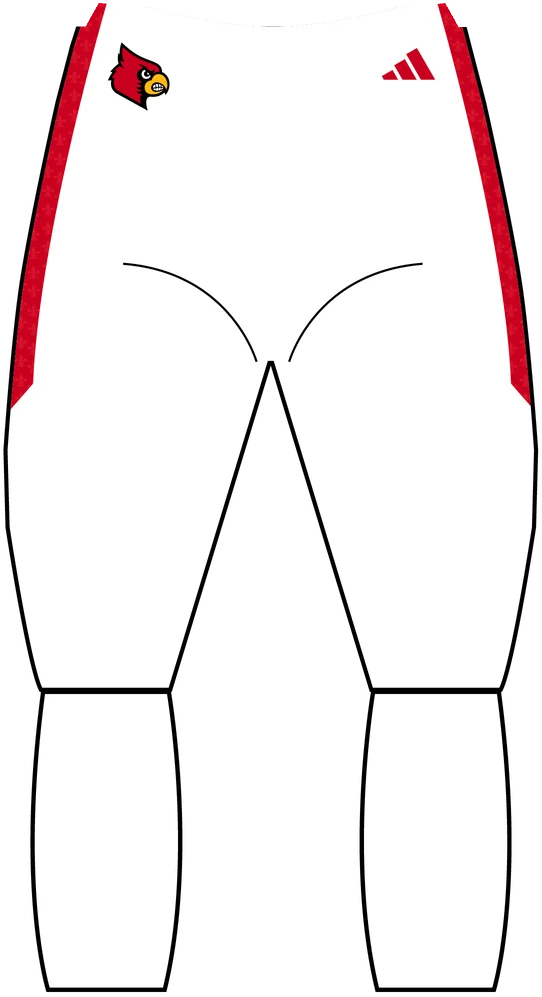
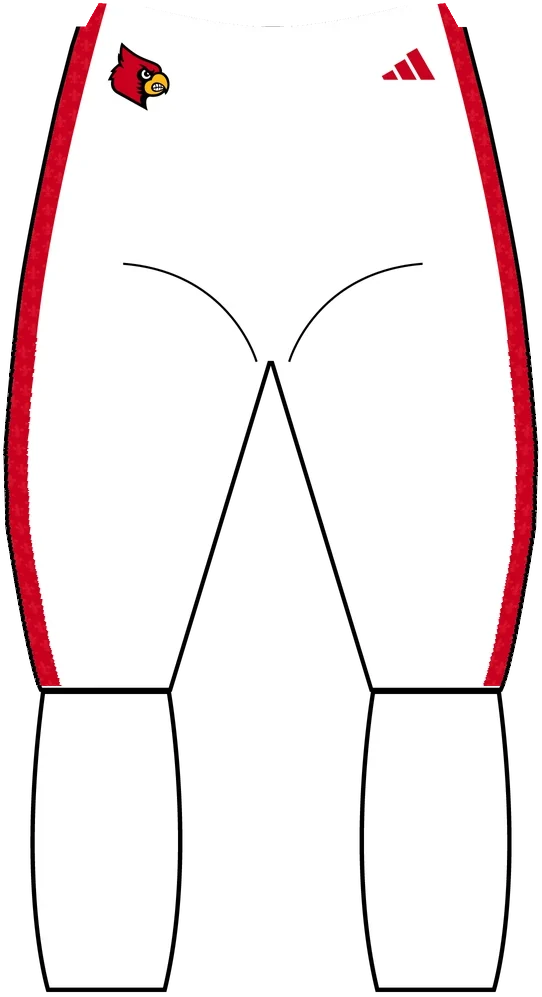
Run the 2026 pants' side panels to the hem in the panel art
The drawn 2026 pants stop their side panels partway down the thigh; on
the field and on the 3D player they run waistband to hem. A new
tools/pants_panels.py continues each panel down the outer edge to the
sock line, and prepare-uniforms.py applies it to the pants PANEL_END
marks as full length.

Claude-Session: https://claude.ai/code/session_01Cn7A5wwhiT3dYtk1tYmEhf

diff --git a/tools/pants_panels.py b/tools/pants_panels.py
@@ -1,0 +1,65 @@
+#!/usr/bin/env python3
+"""Run the 2026 pants' side panels down to the hem in the panel art.
+
+The design draws the 2026 side panels stopping partway down the thigh, cut
+at an angle; on the field (and on the 3D player, PANEL_END in
+prepare-uniforms.py) they run the full outside seam, waistband to hem. This
+copies the panel's rows from the thigh, where the drawing has it at full
+width, down the outer edge of each leg to the sock line.
+
+prepare-uniforms.py calls extend_panels() for the pants in PANEL_END. Run
+this file directly to patch the WebPs already in assets/uni/:
+
+    python3 tools/pants_panels.py
+
+Needs Pillow and NumPy.
+"""
+from pathlib import Path
+
+import numpy as np
+from PIL import Image
+
+ROOT = Path(__file__).resolve().parent.parent
+NAMES = ['pants-red', 'pants-white', 'pants-black']
+
+
+def extend_panels(img):
+    """Returns a copy of the front-view pants art with each side panel
+    continued from the thigh to the sock line."""
+    a = np.array(img.convert('RGBA')).astype(np.int16)
+    h, w = a.shape[:2]
+    base = np.median(a[int(h * 0.12):int(h * 0.25), int(w * 0.42):int(w * 0.58), :3].reshape(-1, 3), axis=0)
+    k = int(w * 0.11)  # strip width copied from the edge inward: outline, panel and some pants color
+    ref = list(range(int(h * 0.26), int(h * 0.34)))  # rows where the drawn panel is full width
+    out = a.copy()
+    for side in (1, -1):
+        def edge(y):
+            alpha = a[y, :, 3] > 128
+            if not alpha.any():
+                return None
+            return int(np.argmax(alpha)) if side == 1 else w - 1 - int(np.argmax(alpha[::-1]))
+
+        def strip(y):
+            x = edge(y)
+            return a[y, x:x + k] if side == 1 else a[y, x - k + 1:x + 1][::-1]
+
+        strips = [strip(y) for y in ref]
+        # Sock line: the first row below mid-leg where the pants color gives
+        # way to the outline across the leg.
+        probe = int(w * 0.07)
+        sock = next(y for y in range(int(h * 0.6), h) if edge(y) is not None
+                    and np.abs(a[y, edge(y) + side * probe, :3] - base).max() > 40)
+        for i, y in enumerate(range(ref[-1] + 1, sock - 1)):
+            x = edge(y)
+            s = strips[i % len(strips)]
+            cols = np.arange(x, x + k) if side == 1 else np.arange(x, x - k, -1)
+            inside = a[y, cols, 3] > 128
+            out[y, cols[inside]] = s[inside]
+    return Image.fromarray(out.clip(0, 255).astype(np.uint8), 'RGBA')
+
+
+if __name__ == '__main__':
+    for name in NAMES:
+        path = ROOT / 'assets' / 'uni' / f'{name}.webp'
+        extend_panels(Image.open(path)).save(path, 'WEBP', quality=88, method=6)
+        print('extended', path.relative_to(ROOT))

diff --git a/tools/prepare-uniforms.py b/tools/prepare-uniforms.py
@@ -22,6 +22,7 @@ from PIL import Image, ImageDraw, ImageFilter
 
 sys.path.insert(0, str(Path(__file__).parent))
 from palette import BLACK, RED, snap  # noqa: E402
+from pants_panels import extend_panels  # noqa: E402
 
 SRC = Path(sys.argv[1] if len(sys.argv) > 1 else 'uni-src')
 ROOT = Path(__file__).resolve().parent.parent
@@ -287,7 +288,8 @@ for name in PANTS:
     cand = drop_edge_components(cand, edge_band(a, 14))
     logos = cutout(a, base, cand, 50).crop((0, 0, w, 600))
     save_webp(logos, f'logos-{name}', 542, quality=90)
-    save_webp(img, name, 542)
+    # The panel art matches the 3D: full-length panels where PANEL_END says so.
+    save_webp(extend_panels(img) if PANEL_END.get(name) == 1.0 else img, name, 542)
     spec['pants'][name] = {
         'base': hexof(base), 'socks': hexof(socks), 'bands': bands, 'bandEnd': band_end,
         'logos': f'logos-{name}', 'logoArt': {'width': w, 'height': 600},
